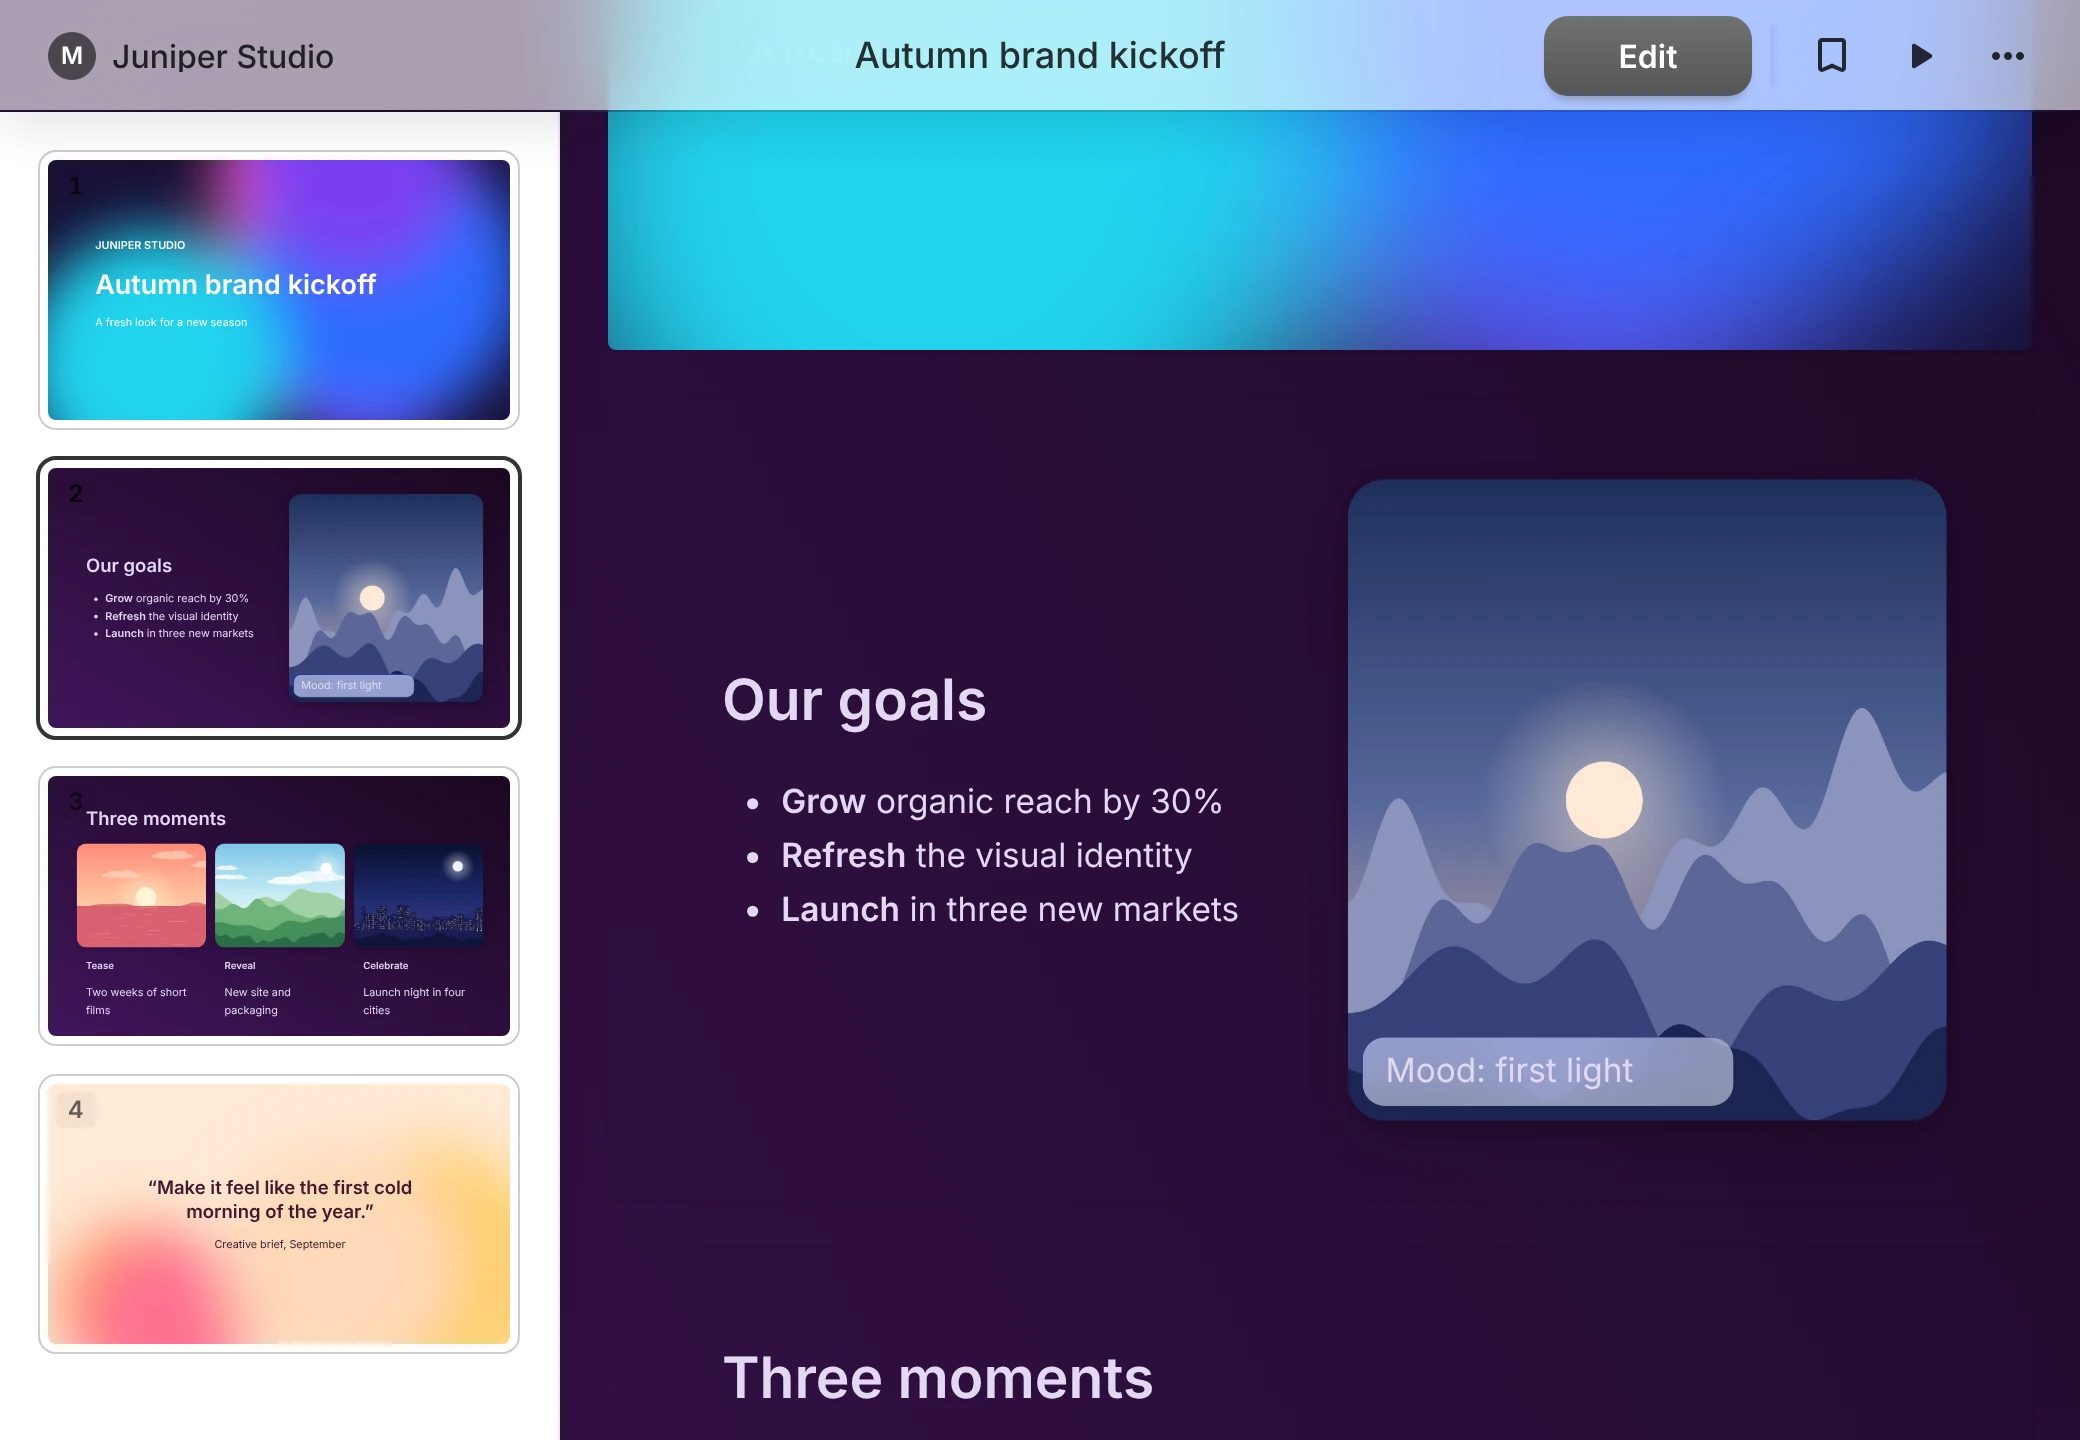
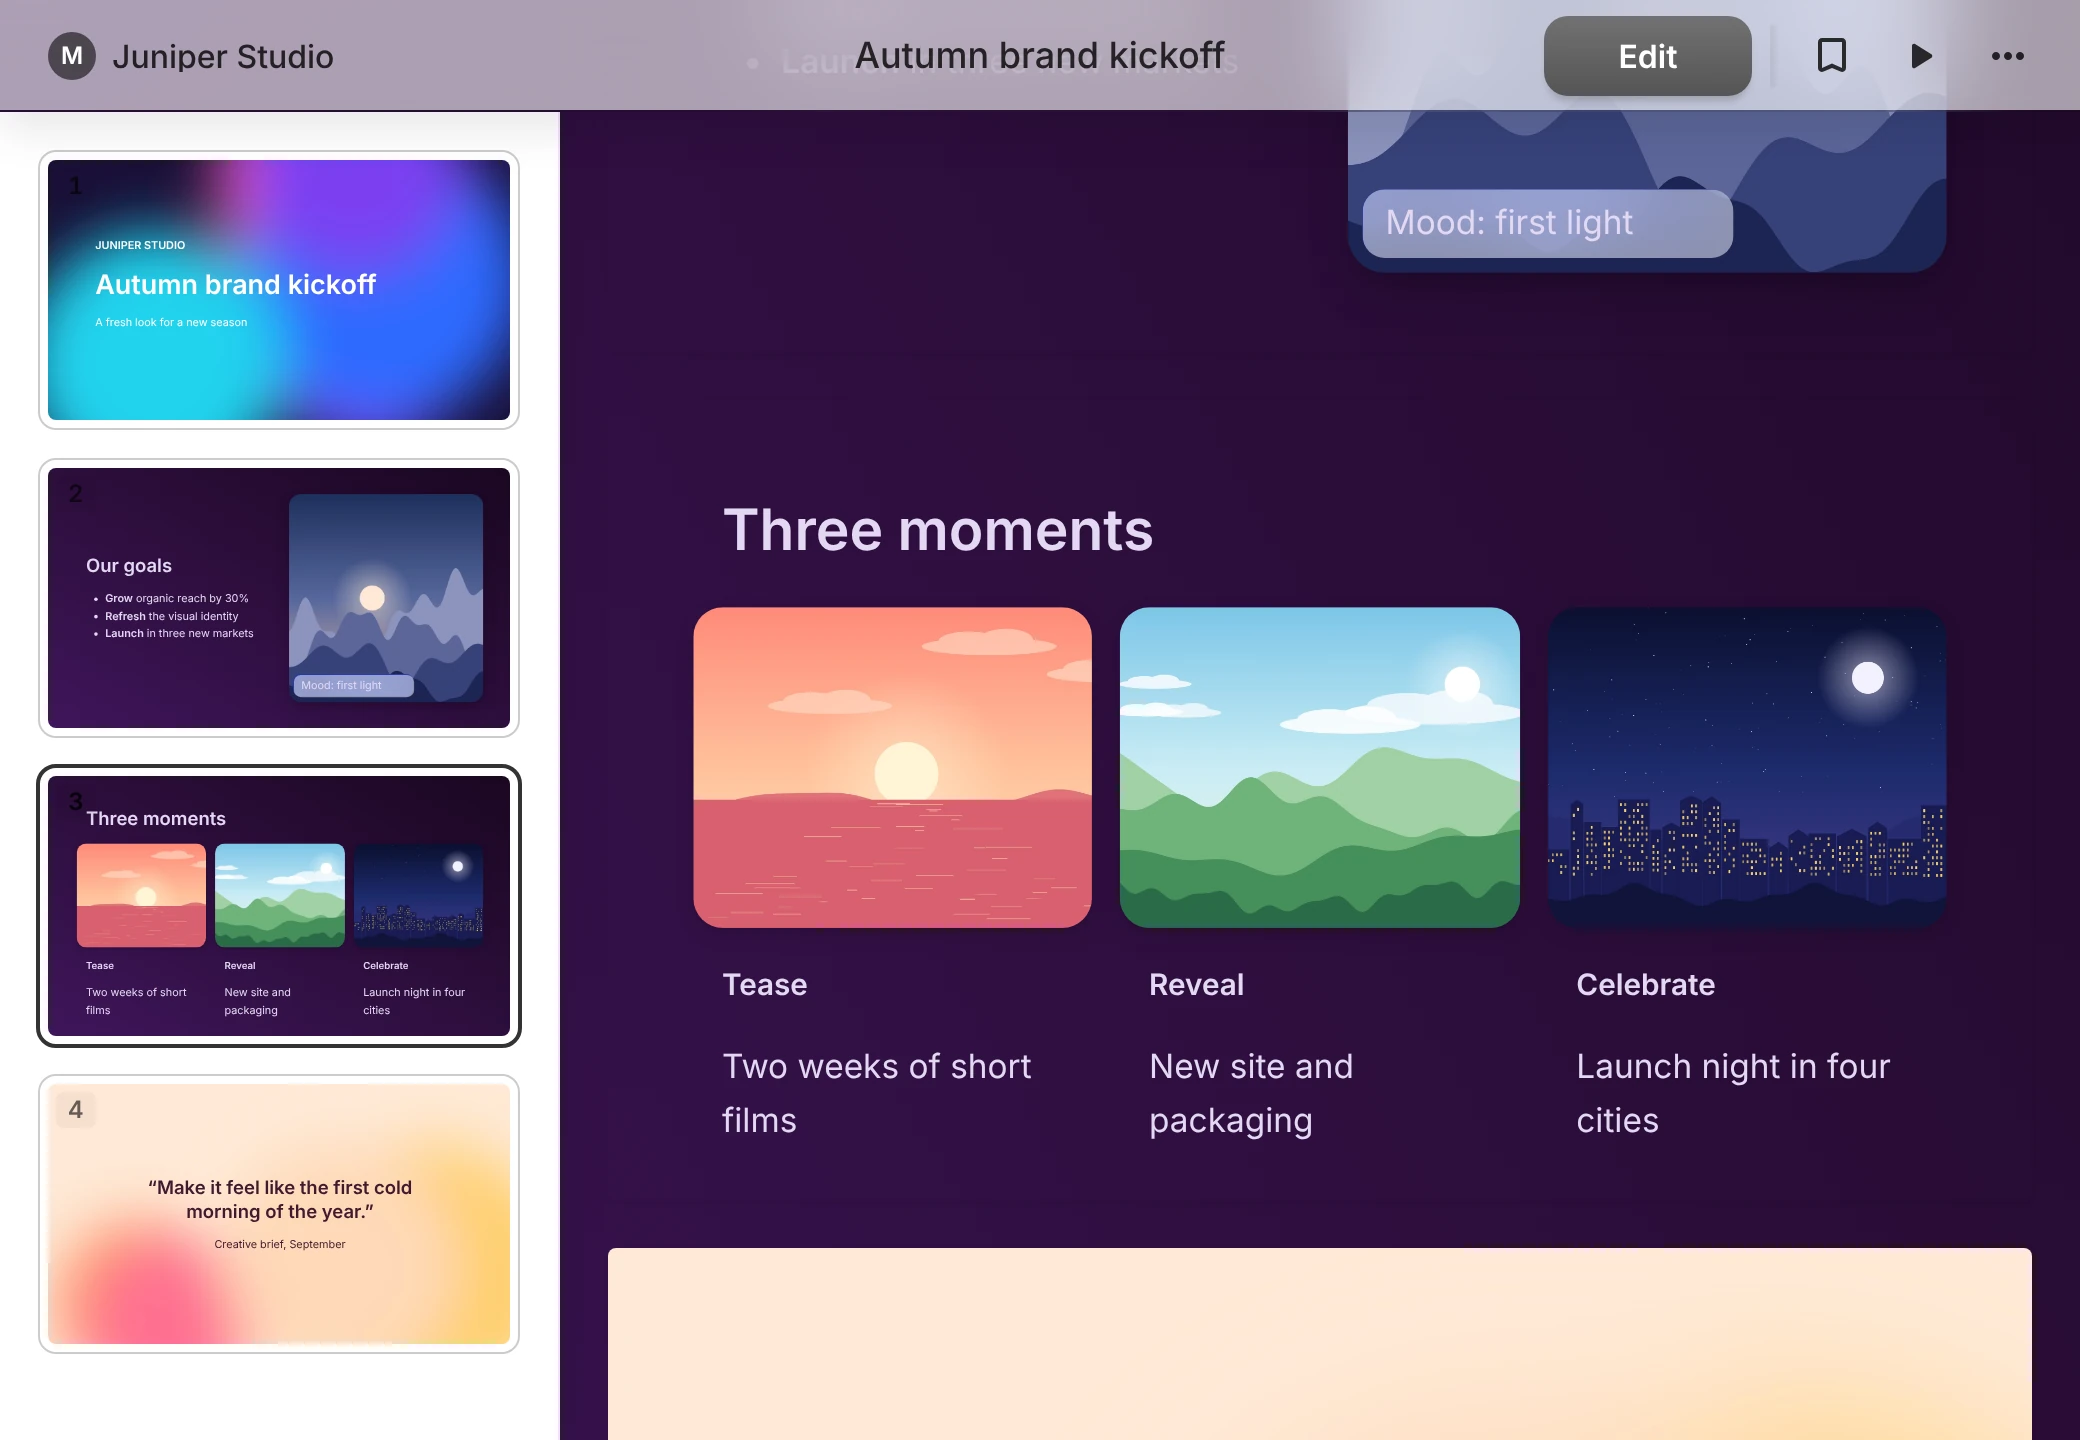
Drop the AI chat screenshot from the README
Keep the AI prompt in the hero and the Write with AI screenshot, and show
a different slide for presentations so the two do not repeat.

Claude-Session: https://claude.ai/code/session_01XDr7dEkGEhXPPqQcWkW198

diff --git a/README.md b/README.md
@@ -45,13 +45,9 @@ Pages are made of **tiles**: blocks of text, images, videos, links, tables and c
     </td>
   </tr>
   <tr>
-    <td width="50%" valign="top">
-      <img src="docs/images/ai-chat.webp" alt="A chat with AI beside a document, where it has added a list of goals">
-      <p><b>AI chat</b><br>Ask for what you need and AI writes it into the page.</p>
-    </td>
-    <td width="50%" valign="top">
-      <img src="docs/images/ai-write.webp" alt="A prompt asking AI to rewrite the selected text on a slide">
-      <p><b>Write with AI</b><br>Select text and describe how to change it.</p>
+    <td colspan="2" align="center">
+      <img src="docs/images/ai-write.webp" alt="A prompt asking AI to rewrite the selected text on a slide" width="50%">
+      <p><b>AI</b><br>Select text or tiles and describe what you want changed.</p>
     </td>
   </tr>
 </table>
